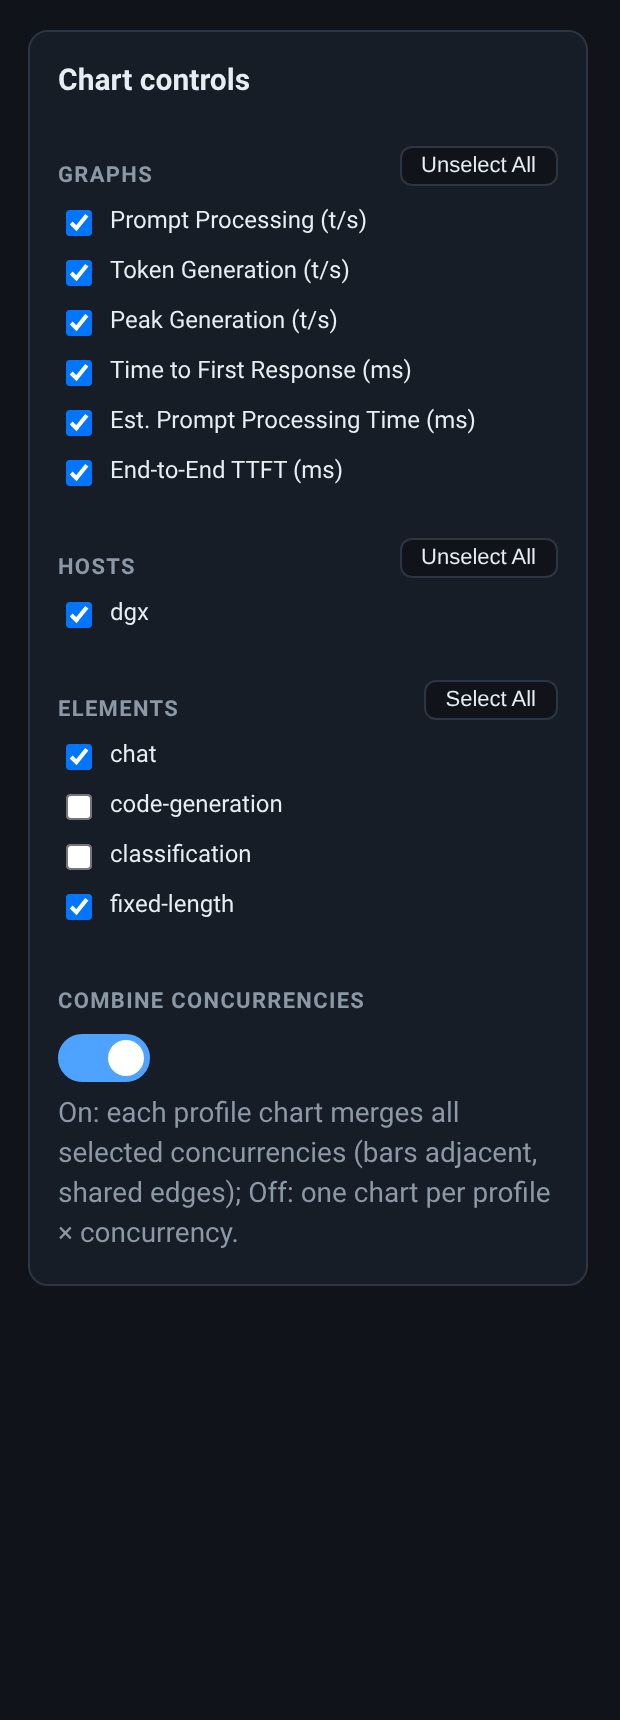
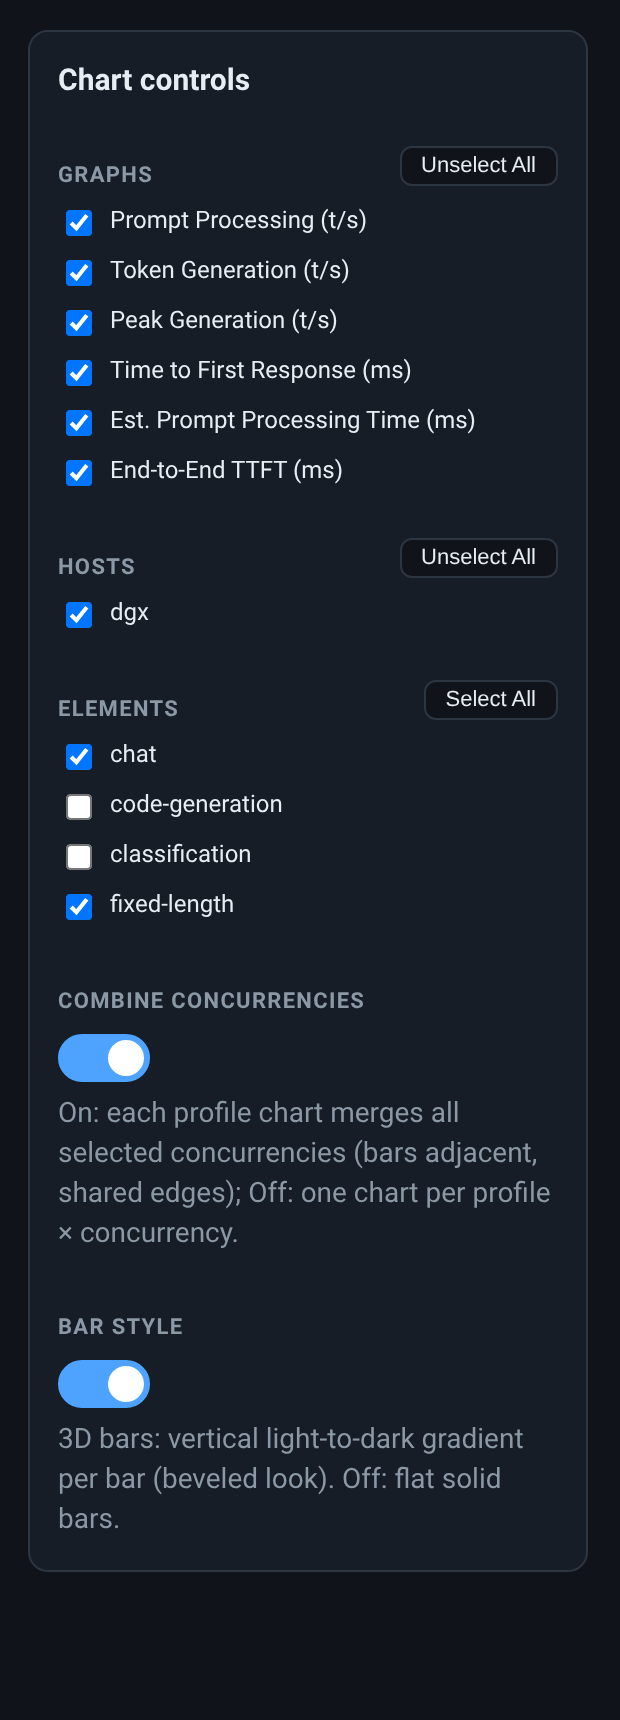
3D beveled bars (default on), themed scrollbars; tooltip screenshot
Bar Style - 3D bars (Chart controls, default ON):
- Pseudo-3D bevel per bar via SVG linearGradient overlays (light top edge
  -> base -> dark shadow), one gradient per trace applied to every depth
  bar of the trace.
- Toggle shades/unshades in place (no chart re-render, so pane widths and
  scrollbars stay stable).
- Rendering fixes found during verification:
  * Plotly paints bars through inline style, so the gradient is applied to
    path.style.fill (a bare fill attribute was ignored);
  * SVG stop-color attribute does not accept hsl() in Chromium - stops are
    set via style.stopColor instead;
  * all paths of every trace are shaded (previously only depth-0 bars).

Scrollbars:
- All scrollable surfaces (.subplot-row, #chart-controls, .ctl-scroll,
  .ms-panel) now follow the active theme (webkit + firefox, thin, muted
  thumb on transparent track) - no light-on-dark OS-default scrollbars.
- .subplot-row hardened with max-width/min-width 0; overflow-x stays auto
  so the bar only paints when the selected data actually needs scrolling.

Docs/screenshots:
- README: 3D bars bullet (default on) and screenshots section.
- docs/screenshots/*.png regenerated (dark theme): dashboard, chart
  controls (Combine + 3D bars on), and grouped-legends now with the bar
  hover tooltip open showing server/model/concurrency/depth/date/time/
  run/prompt-completion/metric +/- std.

Changed region(s): [[0.0919, 0.7395, 0.8274, 0.8936], [0.9194, 0.7395, 0.95, 0.8936], [0.0306, 0.7395, 0.0613, 0.8936]]

diff --git a/showaibench/static/app.js b/showaibench/static/app.js
@@ -44,6 +44,70 @@ function hueGap(a, b) {
 /* Minimum hue separation between any two traces grouped in one chart. */
 const MIN_HUE_GAP = 45;
 
+/* ------------------------------------------------------- 3D bar shading */
+
+/* Pseudo-3D bevel for flat bars: after every Plotly draw, replace the solid
+   fill of each bar with a per-trace vertical gradient (light top edge ->
+   base -> darker shadow). Pure SVG defs + path fill override; hover, legends,
+   tooltips and the grouped layout are untouched. */
+let barGid = 0;
+
+function shadeColor(hsl, dl) { // hsl string -> lighter/darker hsl string
+  const m = /hsl\(([\d.]+),\s*([\d.]+)%,\s*([\d.]+)%\)/.exec(hsl);
+  if (!m) return hsl;
+  const l = Math.max(12, Math.min(92, parseFloat(m[3]) + dl));
+  return `hsl(${m[1]}, ${m[2]}%, ${l}%)`;
+}
+
+function applyBarShading(slot) {
+  if (!state.bar3d) return;
+  const svg = slot.querySelector("svg.main-svg");
+  if (!svg) return;
+  let defs = svg.querySelector("defs.bar3d");
+  if (!defs) {
+    defs = document.createElementNS("http://www.w3.org/2000/svg", "defs");
+    defs.setAttribute("class", "bar3d");
+    svg.prepend(defs);
+  }
+  defs.replaceChildren();
+  const groups = slot.querySelectorAll(".barlayer .trace");
+  groups.forEach((g, i) => {
+    const paths = g.querySelectorAll("path");
+    if (!paths.length) return;
+    const color = slot.data?.[i]?.marker?.color; // hsl() from traceColor()
+    if (!color) return;
+    const id = `b3d${++barGid}`;
+    const grad = document.createElementNS("http://www.w3.org/2000/svg", "linearGradient");
+    grad.setAttribute("id", id);
+    grad.setAttribute("x1", "0"); grad.setAttribute("y1", "0");
+    grad.setAttribute("x2", "0"); grad.setAttribute("y2", "1");
+    for (const [off, color2] of [
+      [0, shadeColor(color, 22)],
+      [0.32, shadeColor(color, 4)],
+      [0.62, color],
+      [1, shadeColor(color, -18)],
+    ]) {
+      const stop = document.createElementNS("http://www.w3.org/2000/svg", "stop");
+      stop.setAttribute("offset", off);
+      stop.style.stopColor = color2; // CSS property: hsl() valid there, but
+      grad.append(stop);             // not as an SVG stop-color attribute
+    }
+    defs.append(grad);
+    // one gradient per trace, applied to every bar (every depth) of it
+    for (const p of paths) p.style.fill = `url(#${id})`;
+  });
+}
+
+function unapplyBarShading(slot) {
+  const groups = slot.querySelectorAll(".barlayer .trace");
+  groups.forEach((g, i) => {
+    const color = slot.data?.[i]?.marker?.color;
+    if (!color) return;
+    for (const p of g.querySelectorAll("path")) p.style.fill = color; // solid
+  });
+  slot.querySelector("defs.bar3d")?.remove();
+}
+
 const state = {
   servers: [],
   profiles: [],
@@ -59,6 +123,7 @@ const state = {
   hostsOn: new Set(),   // server names included in charts
   elementsOn: new Set(), // "profile|concurrency" element categories shown
   combineConc: true,    // merge a profile's concurrencies into one chart
+  bar3d: true,          // gradient-shade bars for a beveled 3D look
 };
 
 const $ = (sel) => document.querySelector(sel);
@@ -517,6 +582,18 @@ function renderControls() {
     renderCharts();
     renderControls();
   };
+  const b3d = $("#bar-3d");
+  b3d.classList.toggle("on", state.bar3d);
+  b3d.setAttribute("aria-checked", state.bar3d ? "true" : "false");
+  b3d.onclick = () => {
+    state.bar3d = !state.bar3d;
+    b3d.classList.toggle("on", state.bar3d);
+    b3d.setAttribute("aria-checked", state.bar3d ? "true" : "false");
+    // shade in place — no full re-render, so chart width/scrollbars stay put
+    for (const slot of document.querySelectorAll("#charts .plot-slot")) {
+      if (state.bar3d) applyBarShading(slot); else unapplyBarShading(slot);
+    }
+  };
 }
 
 function cssVar(name) {
@@ -650,7 +727,7 @@ function renderCharts() {
     // its final flex width (creating them inline left earlier slots at the
     // transient full-row width, which then never resized)
     for (const { slot, g } of pending) {
-      Plotly.newPlot(slot, g.traces, {
+      const plot = Plotly.newPlot(slot, g.traces, {
         margin: { l: 44, r: 8, t: 4, b: 36 },
         showlegend: false,
         font: { size: 11, color: cssVar("--text") },
@@ -668,6 +745,11 @@ function renderCharts() {
         },
         yaxis: { range: yrange, gridcolor: cssVar("--border"), zeroline: false },
       }, { responsive: true, displayModeBar: false });
+      // re-apply the bevel after every Plotly redraw (initial + resizes);
+      // the rAF covers the brief window before the first async draw finishes
+      slot.on("plotly_afterplot", () => applyBarShading(slot));
+      applyBarShading(slot);
+      requestAnimationFrame(() => applyBarShading(slot));
     }
   }
 }

diff --git a/showaibench/static/style.css b/showaibench/static/style.css
@@ -345,21 +345,40 @@ button.primary:disabled { opacity: 0.45; cursor: not-allowed; }
   color: var(--text);
   font-weight: 600;
 }
-.card .subplot-row { display: flex; gap: 10px; align-items: flex-start; overflow-x: auto; }
+.card .subplot-row { display: flex; gap: 10px; align-items: flex-start; overflow-x: auto; max-width: 100%; min-width: 0; }
 .card .subplot { flex: 1 1 0; min-width: 190px; text-align: center; }
 .card .plot-slot { width: 100%; height: 260px; }
-.lg-head {
-  font-size: 11px; font-weight: 600; color: var(--text);
-  margin: 0 0 2px; white-space: nowrap; overflow: hidden; text-overflow: ellipsis;
+
+/* Scrollbars follow the active theme and only paint when content overflows
+   (overflow-x/y: auto); no light-on-dark artifacts. */
+.subplot-row, #chart-controls, .ctl-scroll, .ms-panel {
+  scrollbar-width: thin;
+  scrollbar-color: var(--muted) transparent;
+}
+.subplot-row::-webkit-scrollbar, #chart-controls::-webkit-scrollbar,
+.ctl-scroll::-webkit-scrollbar, .ms-panel::-webkit-scrollbar {
+  width: 8px; height: 8px;
+}
+.subplot-row::-webkit-scrollbar-thumb, #chart-controls::-webkit-scrollbar-thumb,
+.ctl-scroll::-webkit-scrollbar-thumb, .ms-panel::-webkit-scrollbar-thumb {
+  background: var(--muted); border-radius: 4px;
+}
+.subplot-row::-webkit-scrollbar-track, #chart-controls::-webkit-scrollbar-track,
+.ctl-scroll::-webkit-scrollbar-track, .ms-panel::-webkit-scrollbar-track,
+.subplot-row::-webkit-scrollbar-corner, #chart-controls::-webkit-scrollbar-corner,
+.ctl-scroll::-webkit-scrollbar-corner, .ms-panel::-webkit-scrollbar-corner {
+  background: transparent;
 }
 .lg-chips {
-  display: flex; flex-wrap: wrap; gap: 1px 6px;
+  display: flex; flex-wrap: wrap; gap: 2px 6px;
   justify-content: center; margin-bottom: 2px;
 }
 .lg-chip {
-  display: inline-flex; align-items: center; gap: 4px;
-  font-size: 10px; color: var(--text); white-space: nowrap;
-  background: var(--panel); padding: 1px 4px; border-radius: 4px;
+  display: inline-flex; align-items: center; gap: 5px;
+  background: var(--panel); padding: 2px 6px; border-radius: 4px;
 }
 .lg-chip i { width: 8px; height: 8px; border-radius: 50%; display: inline-block; flex: none; }
+.lg-lines { display: flex; flex-direction: column; line-height: 1.25; text-align: left; }
+.lg-l1 { font-size: 10px; font-weight: 600; color: var(--text); white-space: nowrap; }
+.lg-l2 { font-size: 10px; color: var(--muted); white-space: nowrap; }
 .empty { color: var(--muted); padding: 24px; text-align: center; grid-column: 1 / -1; }

diff --git a/showaibench/static/index.html b/showaibench/static/index.html
@@ -4,9 +4,9 @@
   <meta charset="utf-8">
   <meta name="viewport" content="width=device-width, initial-scale=1">
   <title>show-ai-bench-results</title>
-  <link rel="stylesheet" href="/static/style.css?v=11">
+  <link rel="stylesheet" href="/static/style.css?v=12">
   <script src="/static/plotly.min.js"></script>
-  <script src="/static/app.js?v=41" defer></script>
+  <script src="/static/app.js?v=45" defer></script>
 </head>
 <body>
   <header>
@@ -92,6 +92,13 @@
           <span class="switch-knob"></span>
         </button>
         <div class="status-note">On: each profile chart merges all selected concurrencies (bars adjacent, shared edges); Off: one chart per profile × concurrency.</div>
+      </section>
+      <section>
+        <div class="ctl-head"><h3>Bar Style</h3></div>
+        <button class="switch on" id="bar-3d" role="switch" aria-checked="true" title="Shade bars with a 3D bevel gradient">
+          <span class="switch-knob"></span>
+        </button>
+        <div class="status-note">3D bars: vertical light-to-dark gradient per bar (beveled look). Off: flat solid bars.</div>
       </section>
     </aside>
   </main>

diff --git a/README.md b/README.md
@@ -87,6 +87,11 @@ servers.conf ──► main.py (FastAPI, 127.0.0.1:8585)
   itself), never under the controls or at the page bottom.
 - **Failure handling**: a run that ends with any failed entry shows a
   collapsed failure strip with the full tool log — and no partial graphs.
+- **Bar Style** — **3D bars** switch (default **on**): shading every bar with a
+  per-trace vertical gradient (light top edge → base → dark shadow) via SVG
+  defs overlays. It's a beveled look on the flat grouped charts — Plotly bar
+  traces have no native 3D mode — and it composes with everything else
+  (combine mode, tooltips, hover, legends, resize).
 - **Theme** toggle (dark/light).
 
 ### Workload profiles
@@ -125,9 +130,9 @@ concurrency levels — when Combine Concurrencies is on) — and the
 ![Grouped legends](docs/screenshots/grouped-legends.png)
 
 With Combine on, each profile is its own chart with a compact two-line
-legend above it (`chat` / `dgx`); hovering any bar reveals the full
-identity — server, model, concurrency, depth, date, time, run, and the
-measured value with its std.
+legend above it (`chat` / `dgx`), 3D-beveled bars, and the hover tooltip
+open on the first bar — server, model, concurrency, depth, date, time,
+run, prompt/completion sizes and the measured value with its std.
 
 ---
 
